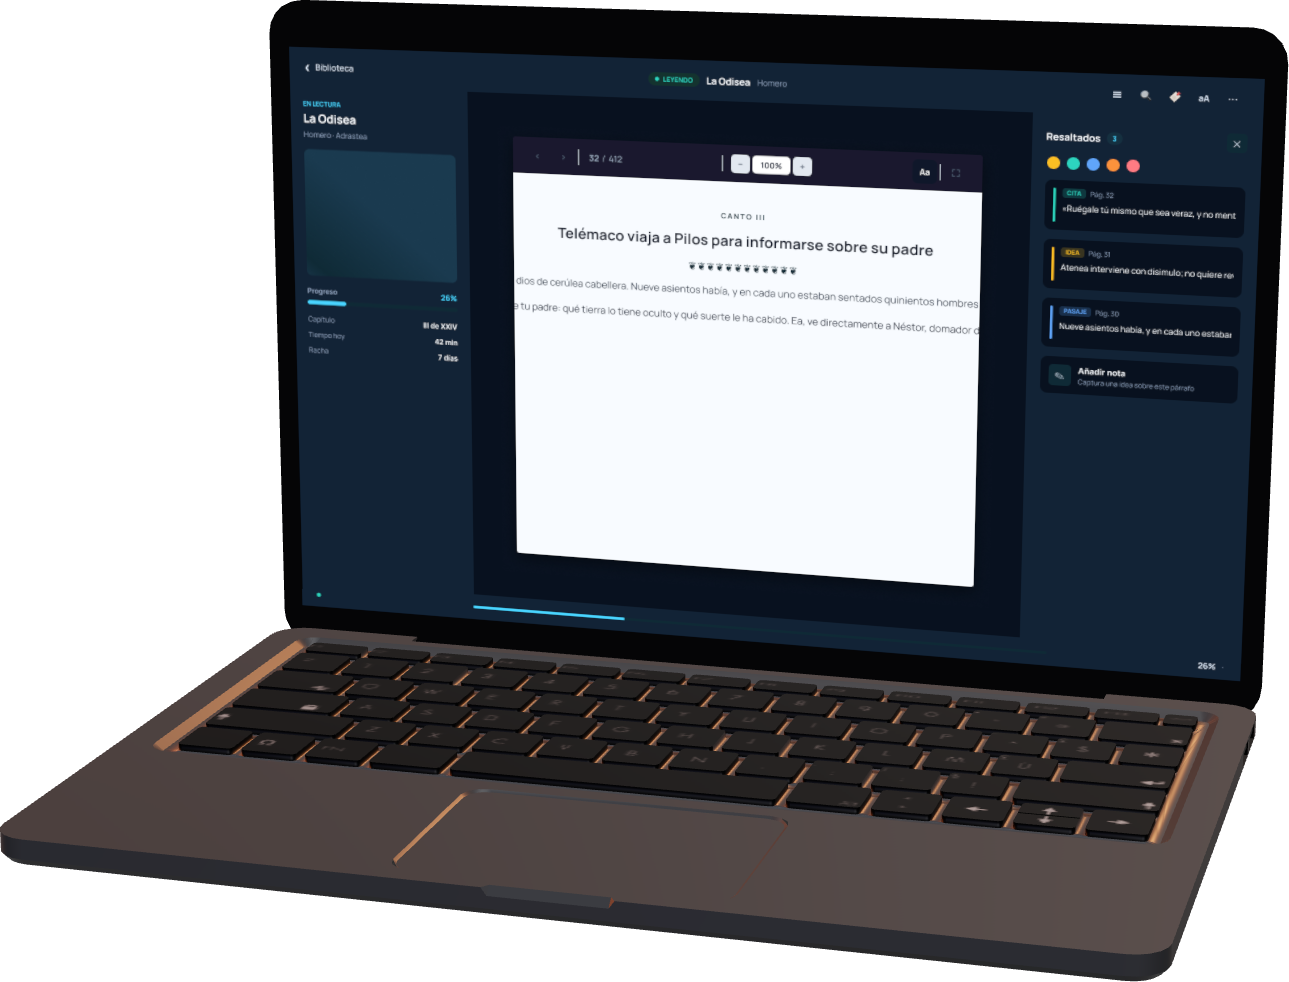
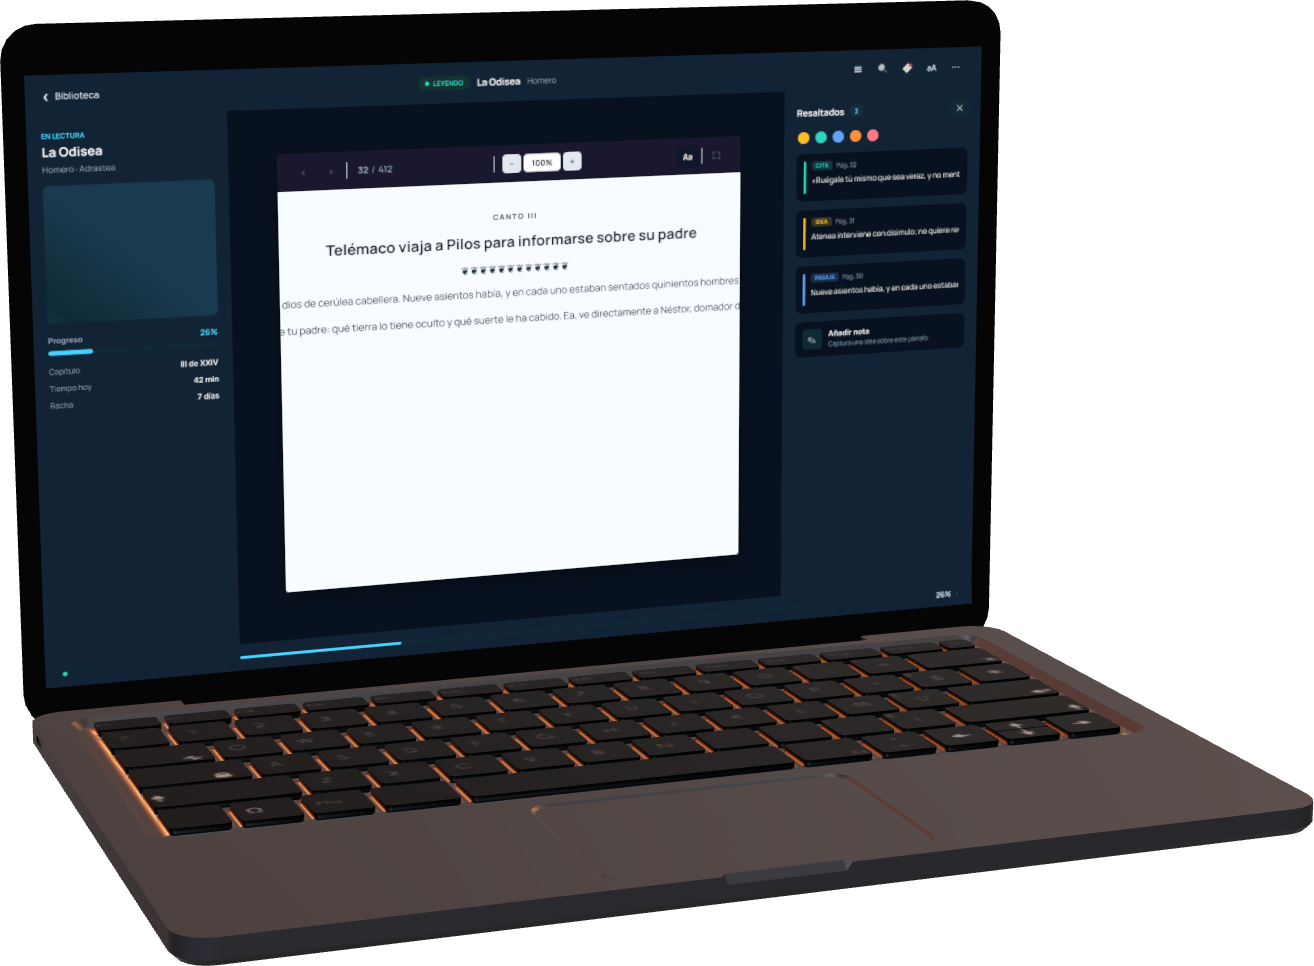
feat(web): match the reference device angles, enlarge them, add idle float
Re-render the laptop turned to face right from a lower camera, and the
tablet turned to face the centre, as in the reference. On desktop the
devices grow (laptop ~42% of the width, tablet ~30%); the tagline moves
above the wordmark so the devices can stand lower and NEXO stays readable
(the laptop now covers its bottom ~10-20%).

After the intro the devices float gently up and down on staggered
periods, with the contact shadow tightening as each one rises. Reduced
motion turns the float off.

diff --git a/nexo-web/src/styles/global.css b/nexo-web/src/styles/global.css
@@ -599,6 +599,19 @@
   .hero-intro .site-header[data-hero] {
     animation: hero-chrome-down 0.55s var(--intro-ease) 1.05s both;
   }
+  /* After the intro the devices keep a slow idle float, like items hovering in
+     a game. It moves the image inside .hero-device (whose own transform belongs
+     to the entrance), and the contact shadow tightens and fades as the device
+     rises, so it reads as lifting off the rock rather than sliding. Starting right
+     after the intro, staggered by --float-phase, keeps the first frame at rest. */
+  .hero-intro .hero-device > img {
+    animation: hero-float var(--float-dur) ease-in-out calc(1.6s + var(--float-phase)) infinite
+      alternate both;
+  }
+  .hero-intro .hero-device::after {
+    animation: hero-float-shadow var(--float-dur) ease-in-out calc(1.6s + var(--float-phase))
+      infinite alternate both;
+  }
 
   /* Reduced motion lives in the components layer so it out-cascades the
      animation declarations above (a base-layer override would lose to them). */
@@ -613,7 +626,9 @@
     .hero-intro .hero-word,
     .hero-intro .hero-device,
     .hero-intro .hero-chrome,
-    .hero-intro .site-header[data-hero] {
+    .hero-intro .site-header[data-hero],
+    .hero-intro .hero-device > img,
+    .hero-intro .hero-device::after {
       animation: none;
     }
   }
@@ -905,6 +920,24 @@
   to {
     opacity: 1;
     transform: none;
+  }
+}
+@keyframes hero-float {
+  from {
+    transform: none;
+  }
+  to {
+    transform: translateY(var(--float-y)) rotate(var(--float-r));
+  }
+}
+@keyframes hero-float-shadow {
+  from {
+    opacity: 1;
+    transform: none;
+  }
+  to {
+    opacity: 0.6;
+    transform: scaleX(0.88);
   }
 }
 @keyframes hero-chrome-up {

diff --git a/nexo-web/tools/device-renders/README.md b/nexo-web/tools/device-renders/README.md
@@ -45,10 +45,10 @@ await renderDevice({
   key: 1.4,
   front: 1.1,
   fill: 1.1,
-  rotation: [0, -16, 0],
+  rotation: [0, 20, 0],
   size: [1800, 1300],
   name: 'laptop',
-  cam: { dist: 5.9, elev: 13, azim: 0 },
+  cam: { dist: 5.9, elev: 11, azim: 0 },
 });
 await renderDevice({
   file: 'ipad_pro_12.9_2020.glb',
@@ -56,7 +56,7 @@ await renderDevice({
   texture: 'screen-tablet.png',
   flipY: true,
   planar: {},
-  rotation: [-6, 28, -90],
+  rotation: [-6, -28, -91],
   size: [1500, 1200],
   name: 'tablet',
   cam: { dist: 5.2, elev: 8, azim: 0 },
